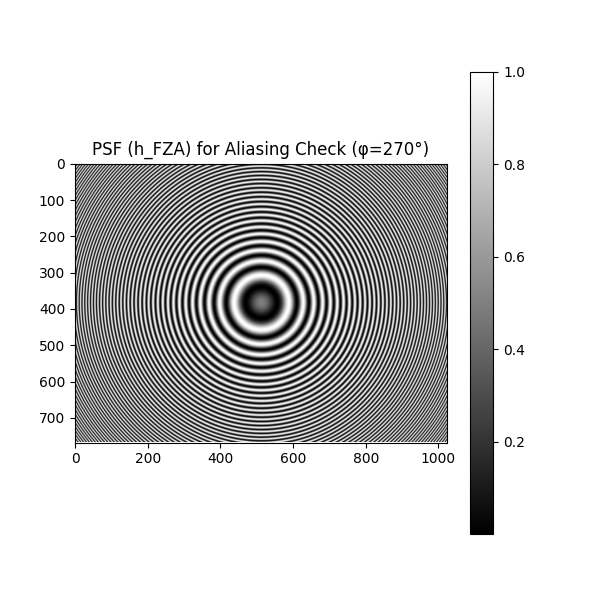
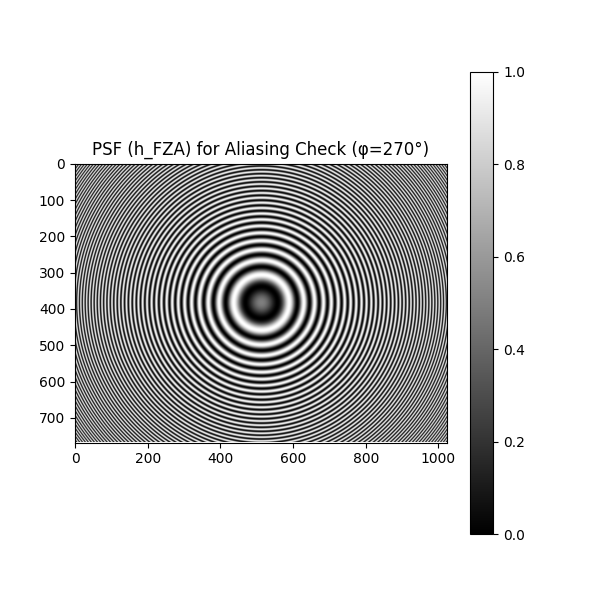
update_real

Changed region(s): [[0.12, 0.27, 0.75, 0.75], [0.84, 0.87, 0.87, 0.9]]

diff --git a/FZA_mask_reconstructed_real.py b/FZA_mask_reconstructed_real.py
@@ -181,15 +181,16 @@ if __name__ == '__main__':
     y=np.linspace(-slm_height/2,slm_height/2,slm_resolution_y)
     X,Y=np.meshgrid(x, y)
 
-    beta=0.925e6
+    beta=6.5e5
 
     # 実際のパラメータ
     d=5.0e-3
-    z=2.5e-2
+    z=2.5e-1
     
     M=d/z
     beta_prime=beta/((M+1)**2)
-    
+    print(beta_prime)    
+
     # ノイズパラメータ(db)
     snr_db=30
     # 位相の定義
